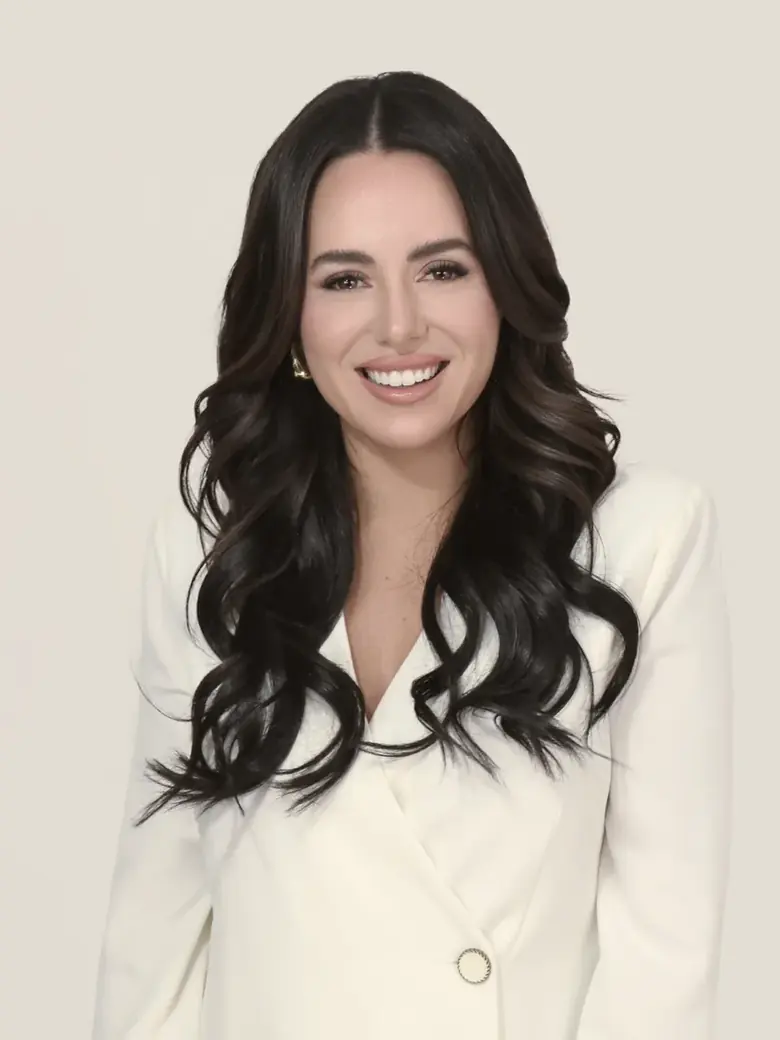
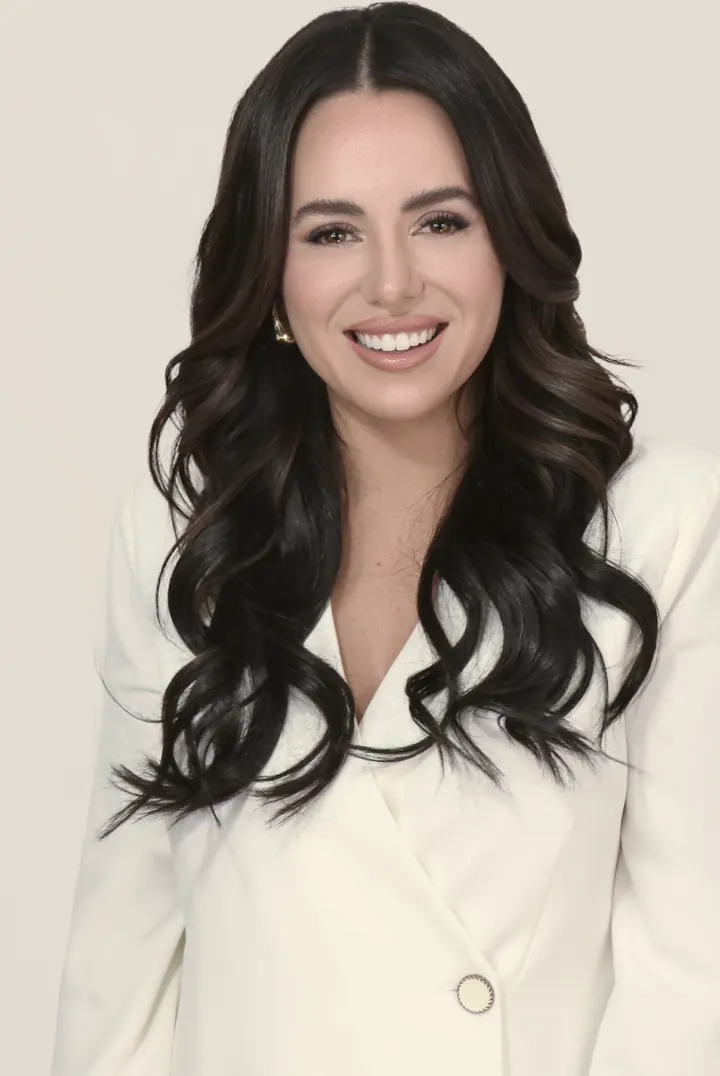
fix: align the hero portrait to the H1 cap-height, centre the booking head
Hero
- The photo is recropped so the top of the file IS the top of her hair,
  and it is offset by 0.41em of the H1 size, which is the distance from
  the top of the line box down to the cap-height of Cormorant. The top of
  her hair now meets the top of "Permanent" at every viewport width
  (measured at 1280 / 1440 / 1720, within 1px), with the baseline still
  landing on the stats rule
- The photo is absolutely positioned inside its block so the offset does
  not push the grid row and drag the copy down with it
- Mobile hero switches to 2/3, the file's own ratio, so nothing is cropped

Booking
- Head centred, headline broken in two balanced lines
- Lead trimmed so it holds at two lines in EN, PT and ES

Lighthouse mobile 100 / 100 / 100 / 100.

diff --git a/index.html b/index.html
@@ -13,7 +13,7 @@
 <link rel="icon" href="assets/favicon.svg" type="image/svg+xml" />
 <link rel="apple-touch-icon" href="assets/apple-touch-icon.png" />
 <link rel="preload" as="image" href="assets/agata-hero.webp"
-      imagesrcset="assets/agata-hero-mobile.webp 780w, assets/agata-hero.webp 1200w"
+      imagesrcset="assets/agata-hero-mobile.webp 720w, assets/agata-hero.webp 1000w"
       imagesizes="(max-width:900px) 100vw, 46vw" fetchpriority="high" />
 <link rel="preload" as="font" type="font/woff2" href="assets/fonts/cormorant-300.woff2" crossorigin />
 <link rel="preload" as="font" type="font/woff2" href="assets/fonts/poppins-300.woff2" crossorigin />
@@ -49,6 +49,7 @@
   --ff-b:"Poppins",-apple-system,BlinkMacSystemFont,"Segoe UI",sans-serif;
   --ease:cubic-bezier(.22,1,.36,1);
   --maxw:1280px;
+  --h1:clamp(3rem,7.4vw,6.4rem);
   --pad:clamp(1.25rem,4vw,3rem);
 }
 *{margin:0;padding:0;box-sizing:border-box}
@@ -72,7 +73,7 @@ button{font-family:inherit;cursor:pointer;border:none;background:none;color:inhe
 /* ---------- type ---------- */
 .d{font-family:var(--ff-d);font-weight:300;line-height:1.02;letter-spacing:-.012em;color:var(--ink)}
 .d em{font-style:italic;font-weight:300;color:var(--bronze-deep)}
-h1.d{font-size:clamp(3rem,7.4vw,6.4rem)}
+h1.d{font-size:var(--h1)}
 h2.d{font-size:clamp(2.4rem,5.4vw,4.4rem)}
 h3.d{font-size:clamp(1.7rem,3vw,2.5rem);line-height:1.1}
 .lead{
@@ -206,12 +207,15 @@ h3.d{font-size:clamp(1.7rem,3vw,2.5rem);line-height:1.1}
 }
 .hero__meta .n em{font-style:italic;color:var(--bronze-deep)}
 .hero__meta .l{display:block;margin-top:.5rem;font-size:.63rem;letter-spacing:.19em;text-transform:uppercase;color:var(--ink-faint);line-height:1.5}
-.hero__fig{position:relative;align-self:end;height:clamp(24rem,62vh,38rem);min-height:0}
-.hero__fig img{
-  width:100%;height:100%;object-fit:cover;object-position:50% 12%;
+.hero__fig{position:relative;align-self:stretch;height:auto;min-height:0;overflow:hidden}
+/* the photo starts at the cap-height of the H1, not at the top of its line box,
+   so the top of her hair lines up with the top of "Permanent" */
+.hero__ph{
+  position:absolute;top:calc(var(--h1) * .41);left:0;right:0;
+  width:100%;height:calc(100% - var(--h1) * .41);object-fit:cover;object-position:50% 0;
   clip-path:inset(0 0 100% 0);
 }
-.ready .hero__fig img{animation:wipeDown 1.5s var(--ease) .12s forwards}
+.ready .hero__ph{animation:wipeDown 1.5s var(--ease) .12s forwards}
 @keyframes wipeDown{to{clip-path:inset(0 0 0 0)}}
 .hero__fig img.hero__sig{
   position:absolute;right:clamp(1rem,2vw,2rem);bottom:clamp(1.2rem,3vh,2.4rem);
@@ -256,6 +260,7 @@ h3.d{font-size:clamp(1.7rem,3vw,2.5rem);line-height:1.1}
 .head--split h2{margin-bottom:0}
 .head--center{max-width:52rem;margin-inline:auto;text-align:center}
 .head--center p{margin-inline:auto}
+.lead--two{max-width:40rem}
 
 /* reveal */
 .rv{opacity:0;transform:translateY(26px);transition:opacity 1s var(--ease),transform 1s var(--ease)}
@@ -531,7 +536,8 @@ h3.d{font-size:clamp(1.7rem,3vw,2.5rem);line-height:1.1}
   .hero{padding-top:7rem}
   .hero__grid{grid-template-columns:1fr;gap:2.4rem}
   .hero__copy{padding-bottom:0;order:1}
-  .hero__fig{order:2;min-height:0;height:auto;aspect-ratio:4/5;margin-inline:calc(var(--pad) * -1);width:100vw}
+  .hero__fig{order:2;min-height:0;height:auto;aspect-ratio:2/3;margin-inline:calc(var(--pad) * -1);width:100vw}
+  .hero__ph{top:0;height:100%}
   .hero__meta{gap:1.3rem 2rem}
   .hero__meta div{max-width:9.5rem}
   .head--split{grid-template-columns:1fr;align-items:start;gap:1.4rem}
@@ -562,7 +568,7 @@ h3.d{font-size:clamp(1.7rem,3vw,2.5rem);line-height:1.1}
   html{scroll-behavior:auto}
   .rv{opacity:1;transform:none}
   .hero h1 .ln > span,.hero__lead,.hero__cta,.hero__meta,.hero__fig img.hero__sig{opacity:1;transform:none;animation:none}
-  .hero__fig img{clip-path:none}
+  .hero__ph{clip-path:none}
   .card__ph .veil{display:none}
 }
 </style>
@@ -626,10 +632,10 @@ h3.d{font-size:clamp(1.7rem,3vw,2.5rem);line-height:1.1}
       </div>
     </div>
     <figure class="hero__fig">
-      <img src="assets/agata-hero.webp"
-           srcset="assets/agata-hero-mobile.webp 780w, assets/agata-hero.webp 1200w"
+      <img src="assets/agata-hero.webp" class="hero__ph"
+           srcset="assets/agata-hero-mobile.webp 720w, assets/agata-hero.webp 1000w"
            sizes="(max-width:900px) 100vw, 46vw"
-           width="1200" height="1600" fetchpriority="high" decoding="async"
+           width="1000" height="1495" fetchpriority="high" decoding="async"
            alt="Agata Soldato, permanent makeup artist in Bee Cave, Texas" />
       <img src="assets/signature.webp" class="hero__sig" width="300" height="130" alt="" aria-hidden="true" loading="lazy" />
     </figure>
@@ -879,9 +885,9 @@ h3.d{font-size:clamp(1.7rem,3vw,2.5rem);line-height:1.1}
 <!-- BOOKING -->
 <section class="sec sec--sand" id="booking">
   <div class="wrap">
-    <div class="head rv">
-      <h2 class="d"><span data-i18n="bk.h2a">Tell me what you are</span> <em data-i18n="bk.h2b">thinking about.</em></h2>
-      <p class="lead" data-i18n="bk.lead">Send this and I will come back to you with availability, what your case needs and what it costs. No deposit is taken before we have spoken.</p>
+    <div class="head head--center rv">
+      <h2 class="d"><span data-i18n="bk.h2a">Tell me what you are</span><br/><em data-i18n="bk.h2b">thinking about.</em></h2>
+      <p class="lead lead--two" data-i18n="bk.lead">Send this and I will come back with availability, what your case needs and what it costs. No deposit before we talk.</p>
     </div>
     <div class="book">
       <form class="form rv" id="bookForm" novalidate>
@@ -1028,7 +1034,7 @@ pt:{
 "faq.q5":"E os cuidados depois?","faq.a5":"Você sai com as instruções por escrito e com o meu contato. Os dez primeiros dias são os que mais contam: nada de piscina, nada de suar muito, não cutucar, e protetor solar assim que a pele fechar.",
 "faq.q6":"Você atende quem é de fora de Austin?","faq.a6":"Direto. Vem gente de todo o Texas e de fora. Me diga suas datas quando escrever e a gente encaixa a primeira sessão e o aperfeiçoamento na sua viagem.",
 "bk.h2a":"Me conte o que","bk.h2b":"você está pensando.",
-"bk.lead":"Manda isso aqui que eu volto com disponibilidade, o que o seu caso precisa e quanto custa. Nenhum sinal é cobrado antes da gente conversar.",
+"bk.lead":"Manda isso aqui que eu volto com disponibilidade, o que o seu caso precisa e quanto custa. Nenhum sinal antes da gente conversar.",
 "bk.name":"Nome","bk.phone":"Telefone ou WhatsApp","bk.service":"O que te interessa",
 "bk.o1":"Sobrancelha (nano, powder ou microblading)","bk.o2":"Lip blush","bk.o3":"Delineado","bk.o4":"Reconstrução de aréola","bk.o5":"Couro cabeludo","bk.o6":"Corrigir trabalho antigo","bk.o7":"Curso para profissionais","bk.o8":"Ainda não sei",
 "bk.msg":"Algo que eu precise saber","bk.send":"Enviar meu pedido",
@@ -1097,7 +1103,7 @@ es:{
 "faq.q5":"¿Y los cuidados después?","faq.a5":"Sales con las instrucciones por escrito y con mi contacto. Los diez primeros días son los que más cuentan: nada de piscina, nada de sudar mucho, no rascar, y protector solar en cuanto la piel cierre.",
 "faq.q6":"¿Atiendes a gente de fuera de Austin?","faq.a6":"Seguido. Viene gente de todo Texas y de fuera. Dime tus fechas cuando escribas y encajamos la primera sesión y el perfeccionamiento en tu viaje.",
 "bk.h2a":"Cuéntame qué","bk.h2b":"tienes en mente.",
-"bk.lead":"Manda esto y te vuelvo con disponibilidad, lo que tu caso necesita y cuánto cuesta. No se cobra ninguna seña antes de hablar.",
+"bk.lead":"Manda esto y te vuelvo con disponibilidad, lo que tu caso necesita y cuánto cuesta. Ninguna seña antes de hablar.",
 "bk.name":"Nombre","bk.phone":"Teléfono o WhatsApp","bk.service":"Qué te interesa",
 "bk.o1":"Cejas (nano, powder o microblading)","bk.o2":"Lip blush","bk.o3":"Delineado","bk.o4":"Reconstrucción de areola","bk.o5":"Micropigmentación capilar","bk.o6":"Corregir trabajo antiguo","bk.o7":"Curso para profesionales","bk.o8":"Todavía no lo sé",
 "bk.msg":"Algo que deba saber","bk.send":"Enviar mi solicitud",
